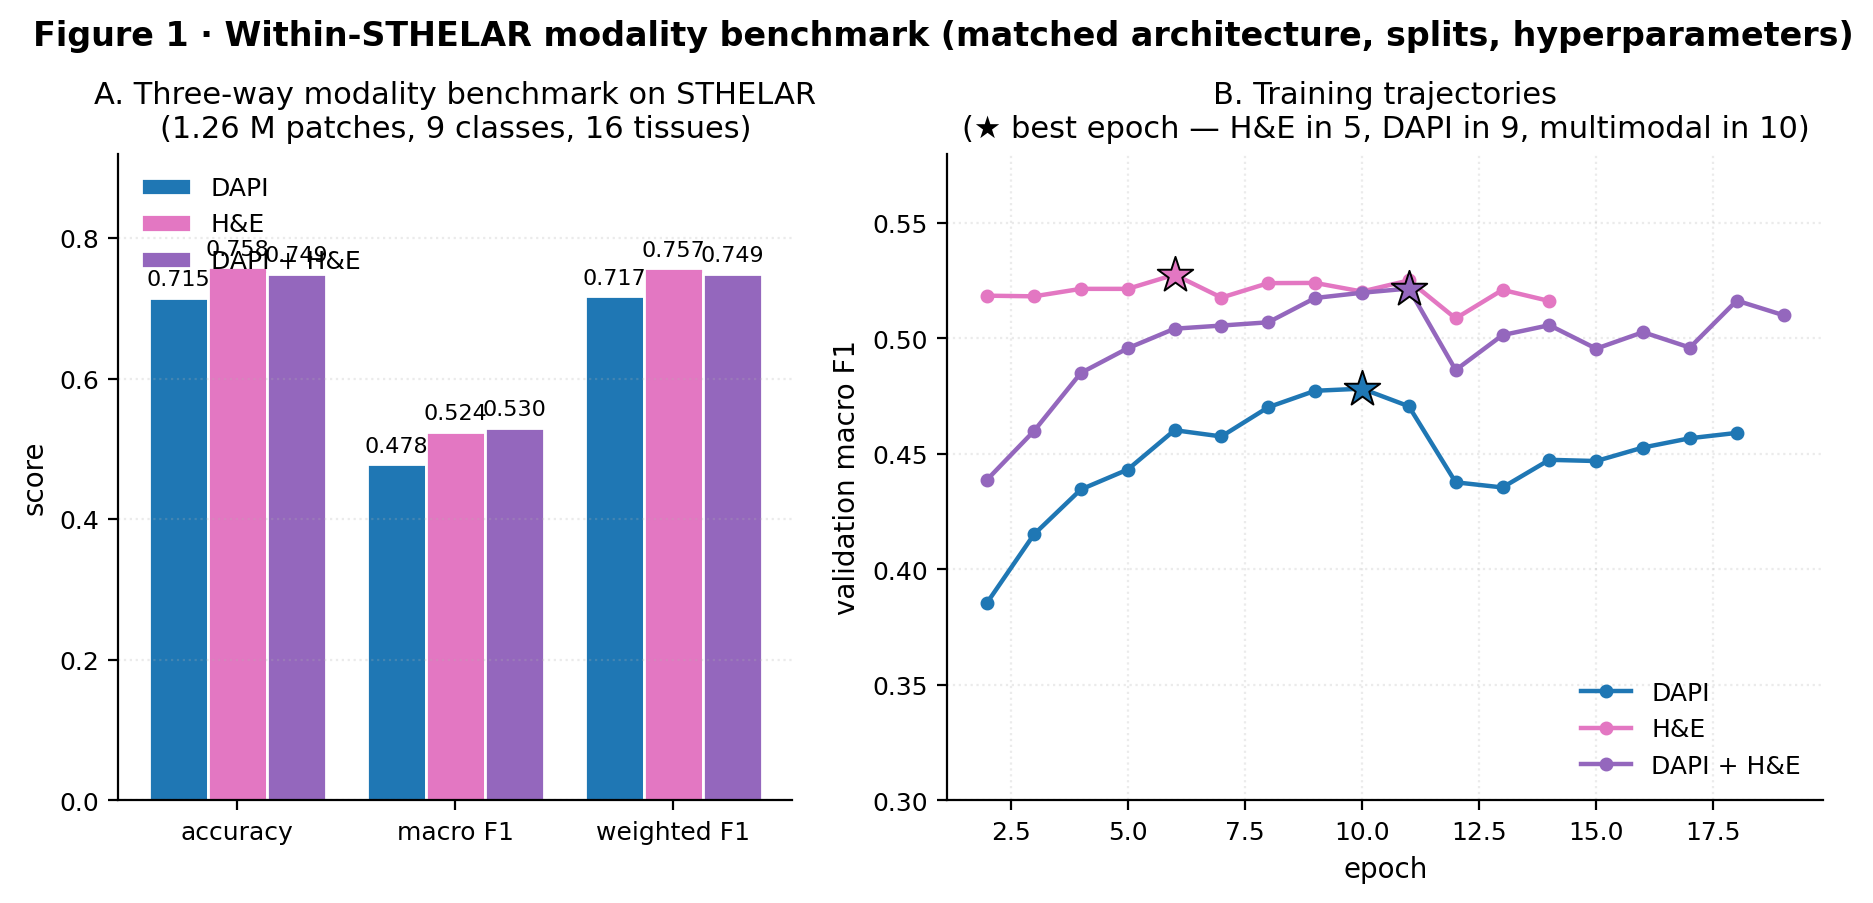
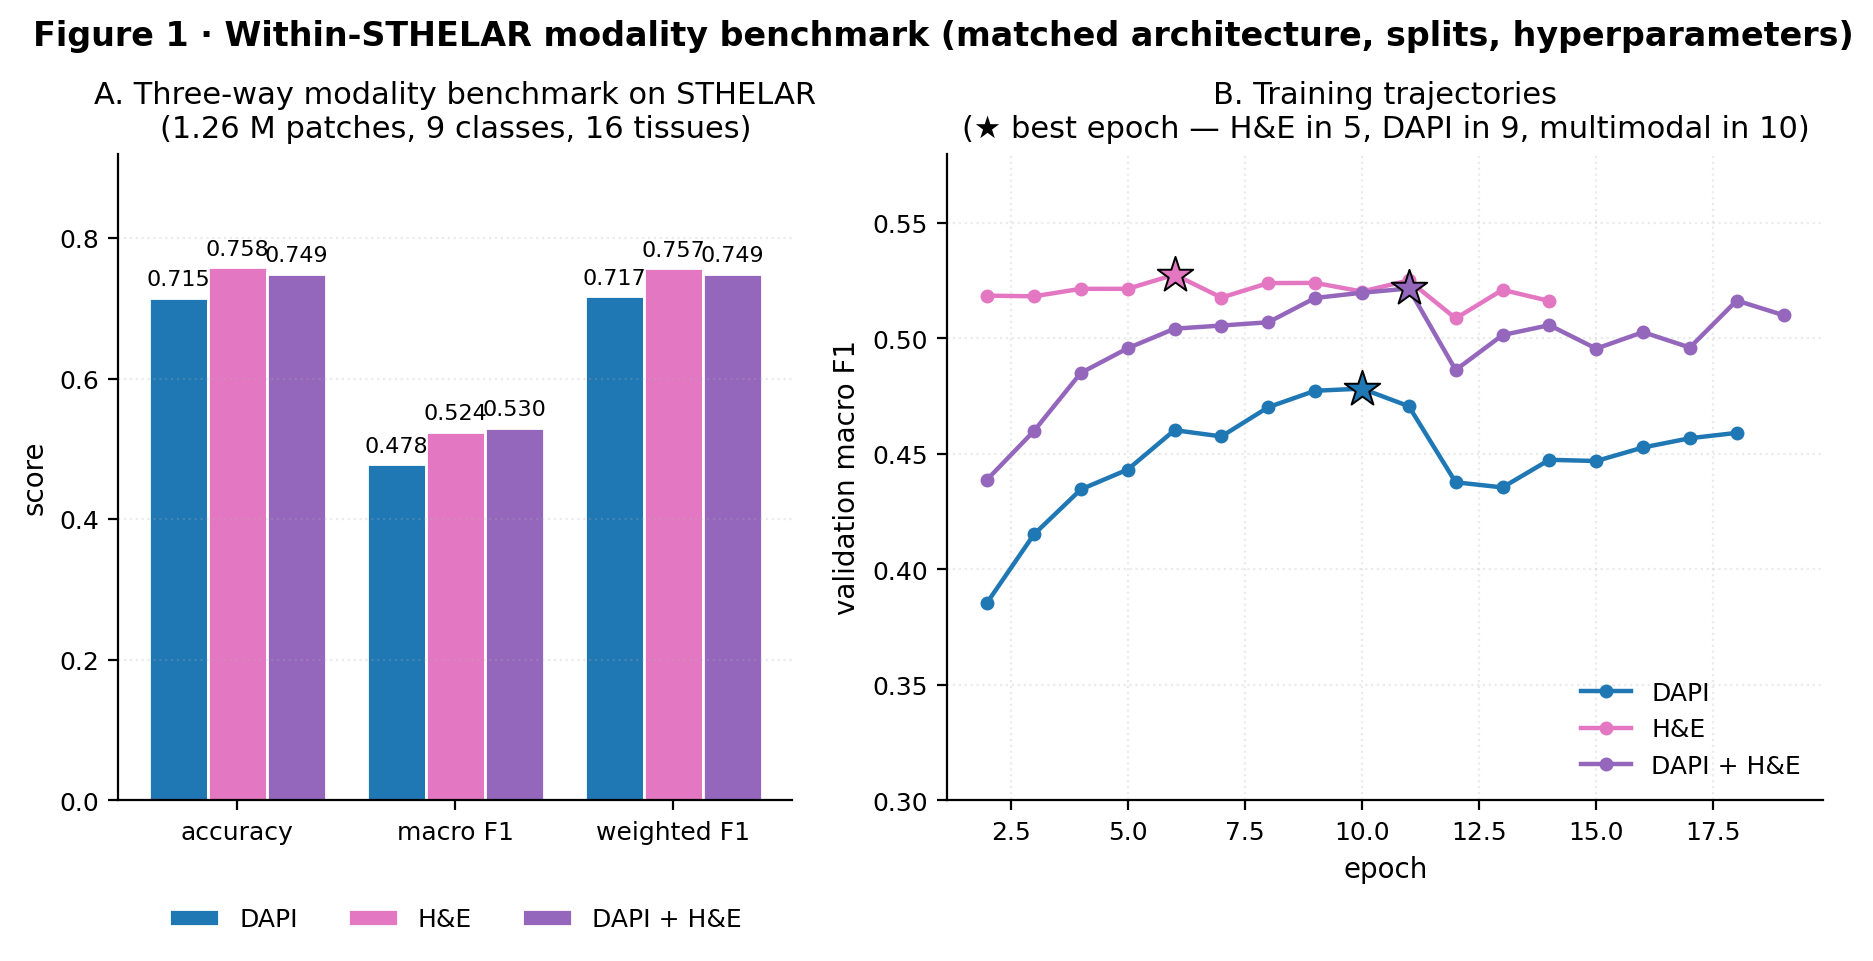
fix(fig1): move panel A legend below the bars (was crowding values)
User flagged that the panel A legend at loc="upper left" was visually
too close to the value annotations above the accuracy bars (DAPI=0.715,
H&E=0.758, multimodal=0.749 sit at y≈0.77 just below the legend at
y≈0.85). Moved to bbox_to_anchor=(0.5, -0.13), loc="upper center", ncol=3
— same below-panel pattern used for fig 4 right and fig 8 panel B.

Both Obsidian copies refreshed via the sync helper.

diff --git a/scripts/manuscript_figures.py b/scripts/manuscript_figures.py
@@ -144,7 +144,10 @@ def fig1_modality_benchmark():
     ax.set_ylim(0, 0.92)
     ax.set_ylabel("score")
     ax.set_title("A. Three-way modality benchmark on STHELAR\n(1.26 M patches, 9 classes, 16 tissues)")
-    ax.legend(loc="upper left", frameon=False)
+    # Legend below the panel so it can't crowd the value annotations above
+    # the accuracy bars (which cluster at y ≈ 0.72–0.77).
+    ax.legend(loc="upper center", bbox_to_anchor=(0.5, -0.13), ncol=3,
+              frameon=False)
     ax.grid(axis="y", alpha=0.25, linestyle=":")
 
     # Panel B — val macro F1 training curves